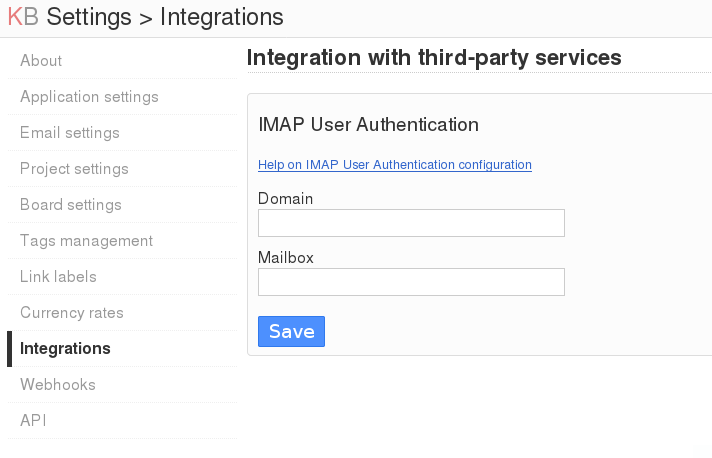
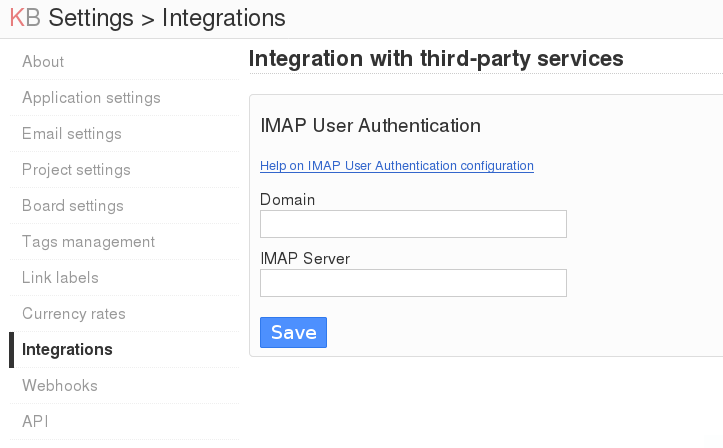
Finessed configuration and documentation (#2)
* Configuration and doc improvements #1

* changed name of setting Mailbox to IMAP Server

* added RELEASES.md

diff --git a/Auth/IMAPUserAuthProvider.php b/Auth/IMAPUserAuthProvider.php
@@ -25,14 +25,14 @@ class IMAPUserAuthProvider implements PasswordAuthenticationProviderInterface {
     protected $db;
 
     const DEFAULT_MAILBOX='{%DOMAIN%:993/imap/ssl/novalidate-cert/notls}';
-    
+
     public function __construct($configModel, $db) {
         $this->mailbox = $configModel->get('plugin_imap_user_auth_mailbox', '');
         $this->domain = $configModel->get('plugin_imap_user_auth_domain', '');
-        
+
         $this->db = $db;
     }
-    
+
     public function getUser() {
         if(empty($this->userinfo))
             return null;
@@ -56,20 +56,22 @@ class IMAPUserAuthProvider implements PasswordAuthenticationProviderInterface {
         $mailbox = $this->mailbox;
         if(empty($mailbox) && !empty($this->domain))
             $mailbox = str_replace('%DOMAIN%', $this->domain, self::DEFAULT_MAILBOX);
-            
+
         if(!function_exists('imap_open') || empty($mailbox))
             return false;
 
+        // supply curly braces if not already present
+        if(strpos('x' . trim($mailbox), '{', 1) != 1)
+            $mailbox = '{' . $mailbox . '}';
+
+        $username = $this->username;
         if(!empty($this->domain)) {
             $pieces = explode('@', $this->username);
             if(count($pieces) == 1)
-                $username = $this->username . "@" . $this->domain;
-            else if(count($pieces) == 2 && $pieces[1] == $this->domain) {
-                $username = $this->username;
+                $username = $this->username . '@' . $this->domain;
+            else if(count($pieces) == 2 && $pieces[1] == $this->domain)
                 $this->username = $pieces[0];
-            }
-        } else
-            $username = $this->username;
+        }
 
         // lookup user in the local database
         $user = $this->db
@@ -86,9 +88,8 @@ class IMAPUserAuthProvider implements PasswordAuthenticationProviderInterface {
             return false;
 
         // validate user's credentials via IMAP
-        $mbox = @imap_open($mailbox, $username, $this->password,
-            OP_HALFOPEN, 1);
-            
+        $mbox = @imap_open($mailbox, $username, $this->password, OP_HALFOPEN, 1);
+
         if($mbox !== FALSE) {
             // success!
             imap_close($mbox);

diff --git a/Template/config.php b/Template/config.php
@@ -6,7 +6,7 @@
     <?= $this->form->label(t('Domain'), 'plugin_imap_user_auth_domain') ?>
     <?= $this->form->text('plugin_imap_user_auth_domain', $values) ?>
 
-    <?= $this->form->label(t('Mailbox'), 'plugin_imap_user_auth_mailbox') ?>
+    <?= $this->form->label(t('IMAP Server'), 'plugin_imap_user_auth_mailbox') ?>
     <?= $this->form->text('plugin_imap_user_auth_mailbox', $values) ?>
 
     <div class="form-actions">

diff --git a/Plugin.php b/Plugin.php
@@ -46,7 +46,7 @@ class Plugin extends Base
 
     public function getPluginVersion()
     {
-        return '1.0.0';
+        return '1.0.1';
     }
 
     public function getPluginHomepage()

diff --git a/README.md b/README.md
@@ -12,7 +12,8 @@ Author
 Requirements
 ------------
 
-- Kanboard >= 1.0.35
+- Kanboard >= 1.2.8
+- PHP IMAP plugin
 
 Installation
 ------------
@@ -32,33 +33,41 @@ Go to Settings > Integrations > IMAP User Authentication
 
 ![screenshot](https://raw.githubusercontent.com/RocketMan/plugin-imap-user-auth/master/screenshot.png "Settings")
 
-* **Domain**: Specify the domain name for IMAP authentication
+### Domain
 
-The value specified for this option will be appended to the username.
-In addition, the plugin will use this value as the address of the IMAP
-server.
+Specify the domain name for IMAP authentication.
 
-For example, if your IMAP usernames are of the format user@domain.com,
-then you will specify 'domain.com' as the value for Domain; by default,
-the plugin will authenticate to the IMAP server at domain.com.
+Example:  If your IMAP usernames are of the form user@example.org,
+then you will specify 'example.org' as the value for Domain; by default,
+the plugin will authenticate to the IMAP server at example.org.
 
-If your IMAP usernames are simple names with no domain suffix, then
-leave this field blank and instead use Mailbox below to specify the server.
+**IMPORTANT:** If your IMAP usernames are simple names with no domain
+suffix, then **leave this field blank** and instead use IMAP Server to
+specify the server.
 
-* **Mailbox**:  **Leave this field blank**, unless your IMAP server
-has a different address to the Domain specified above, **or** usernames
-in your IMAP server do not use domain name suffixes.
+### IMAP Server
 
-The value of the Mailbox option is of the form:
+Address of your IMAP server.  In many cases, you may **leave this
+field blank**.  This setting is necessary only if Domain is blank or
+your IMAP server has a different address from the domain name
+specified in Domain.
 
-    {some.server.com:993/imap/ssl/novalidate-cert/notls}
+Some example IMAP Server settings:
 
-See [imap_open](http://php.net/manual/en/function.imap-open.php) for
-a discussion of the format and a list of the available flags.
+  * `imap.example.org:993/imap/ssl/notls` *(IMAP with implicit TLS)*
+  * `imap.example.org:143/imap/tls` *(IMAP with explicit TLS)*
 
-You may specify Mailbox alone or in combination with Domain.
+Where *imap.example.org* is your IMAP server.
 
-If both options are specified, the value specified by Mailbox is the
+**IMPORTANT:** If your IMAP TLS certificate is invalid, then disable
+certificate validation by adding `/novalidate-cert` to the IMAP Server setting.
+
+See [imap_open](http://php.net/manual/en/function.imap-open.php) for a
+discussion of the format of this field and a list of the available flags.
+
+**NOTE:** You may specify IMAP Server alone or in combination with Domain.
+
+If both options are specified, the value specified by IMAP Server is the
 address of the IMAP server, while the value specified by Domain will
 be appended to the username.
 
@@ -71,7 +80,7 @@ user.  The `Disallow login form` checkbox must NOT be ticked.
 
 The Kanboard username should match the IMAP username, exclusive of any
 domain suffix.  If the IMAP username includes a domain suffix (e.g.,
-user@domain.com), then specify the domain in the Domain setting above.
+user@example.org), then specify the domain in the Domain setting above.
 In this case, the Kanboard username should be just the user portion of
 the IMAP username.  When logging into Kanboard, the user may specify
 either the user portion only or the fully qualified username.

diff --git a/RELEASES.md b/RELEASES.md
@@ -1,0 +1,15 @@
+## Release Notes for plugin-imap-user-auth
+
+### v1.0.1
+
+  * Renamed configuration setting 'Mailbox' to 'IMAP Server'
+  * Made curly braces optional in setting 'IMAP Server'
+  * Improved documentation ([#1](https://github.com/RocketMan/plugin-imap-user-auth/issues/1))
+
+  Thanks to [@slavkoja](https://github.com/slavkoja) for assistance
+  with this release!
+
+
+### v1.0.0
+
+  * Initial release
